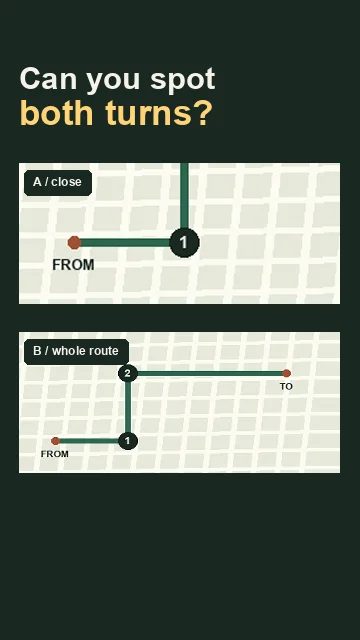
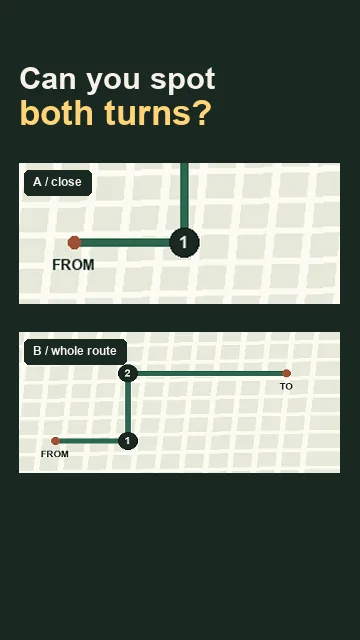
Show matched map scales and trace both turns in the crop comparison

diff --git a/scripts/preview_hook_showcase_practical.py b/scripts/preview_hook_showcase_practical.py
@@ -147,8 +147,26 @@ def map_crop(t):
         tile = map_source().transform((321, 141), Image.Transform.EXTENT, bounds, Image.Resampling.BICUBIC)
         frame.paste(tile, (19, top))
         chip(draw, (24, top + 7), name, INK, PAPER, 12)
+        if i == 1 and t >= 1:
+            # Trace an explicitly staged reader's answer in the original map coordinates.
+            move = ease(progress(t, 1.1, 2.45))
+            x = 19 + 135 * 321 / (bounds[2] - bounds[0])
+            y = top + (173 - 94 * move - bounds[1]) * 141 / (bounds[3] - bounds[1])
+            draw.ellipse((x-8, y-8, x+8, y+8), outline='#9d3d24', width=3)
+        if t >= 2.55:
+            # The illustrative map scale is two metres per source pixel.
+            bar = round(50 * 321 / (bounds[2] - bounds[0]))
+            right, baseline = 328, top + 130
+            draw.rounded_rectangle((right-bar-8, baseline-24, right+7, baseline+5), 3, fill=PAPER)
+            draw.line((right-bar, baseline, right, baseline), fill=INK, width=3)
+            draw.line((right-bar, baseline-4, right-bar, baseline+2), fill=INK, width=2)
+            draw.line((right, baseline-4, right, baseline+2), fill=INK, width=2)
+            words(draw, (right, baseline-14), '100 m', 12, INK, 'rm')
     if t >= 2.55:
-        chip(draw, (20, 509), 'Both turns fit in B', MINT, INK, 18)
+        chip(draw, (20, 506), 'Sample answer / both turns fit in B', MINT, INK, 15)
+        words(draw, (20, 553), 'Illustrative map and distance scale', 15, PAPER)
+    elif t >= 1:
+        chip(draw, (20, 509), 'Sample reader / trace the two turns', INK, MINT, 15)
     return frame
 
 
